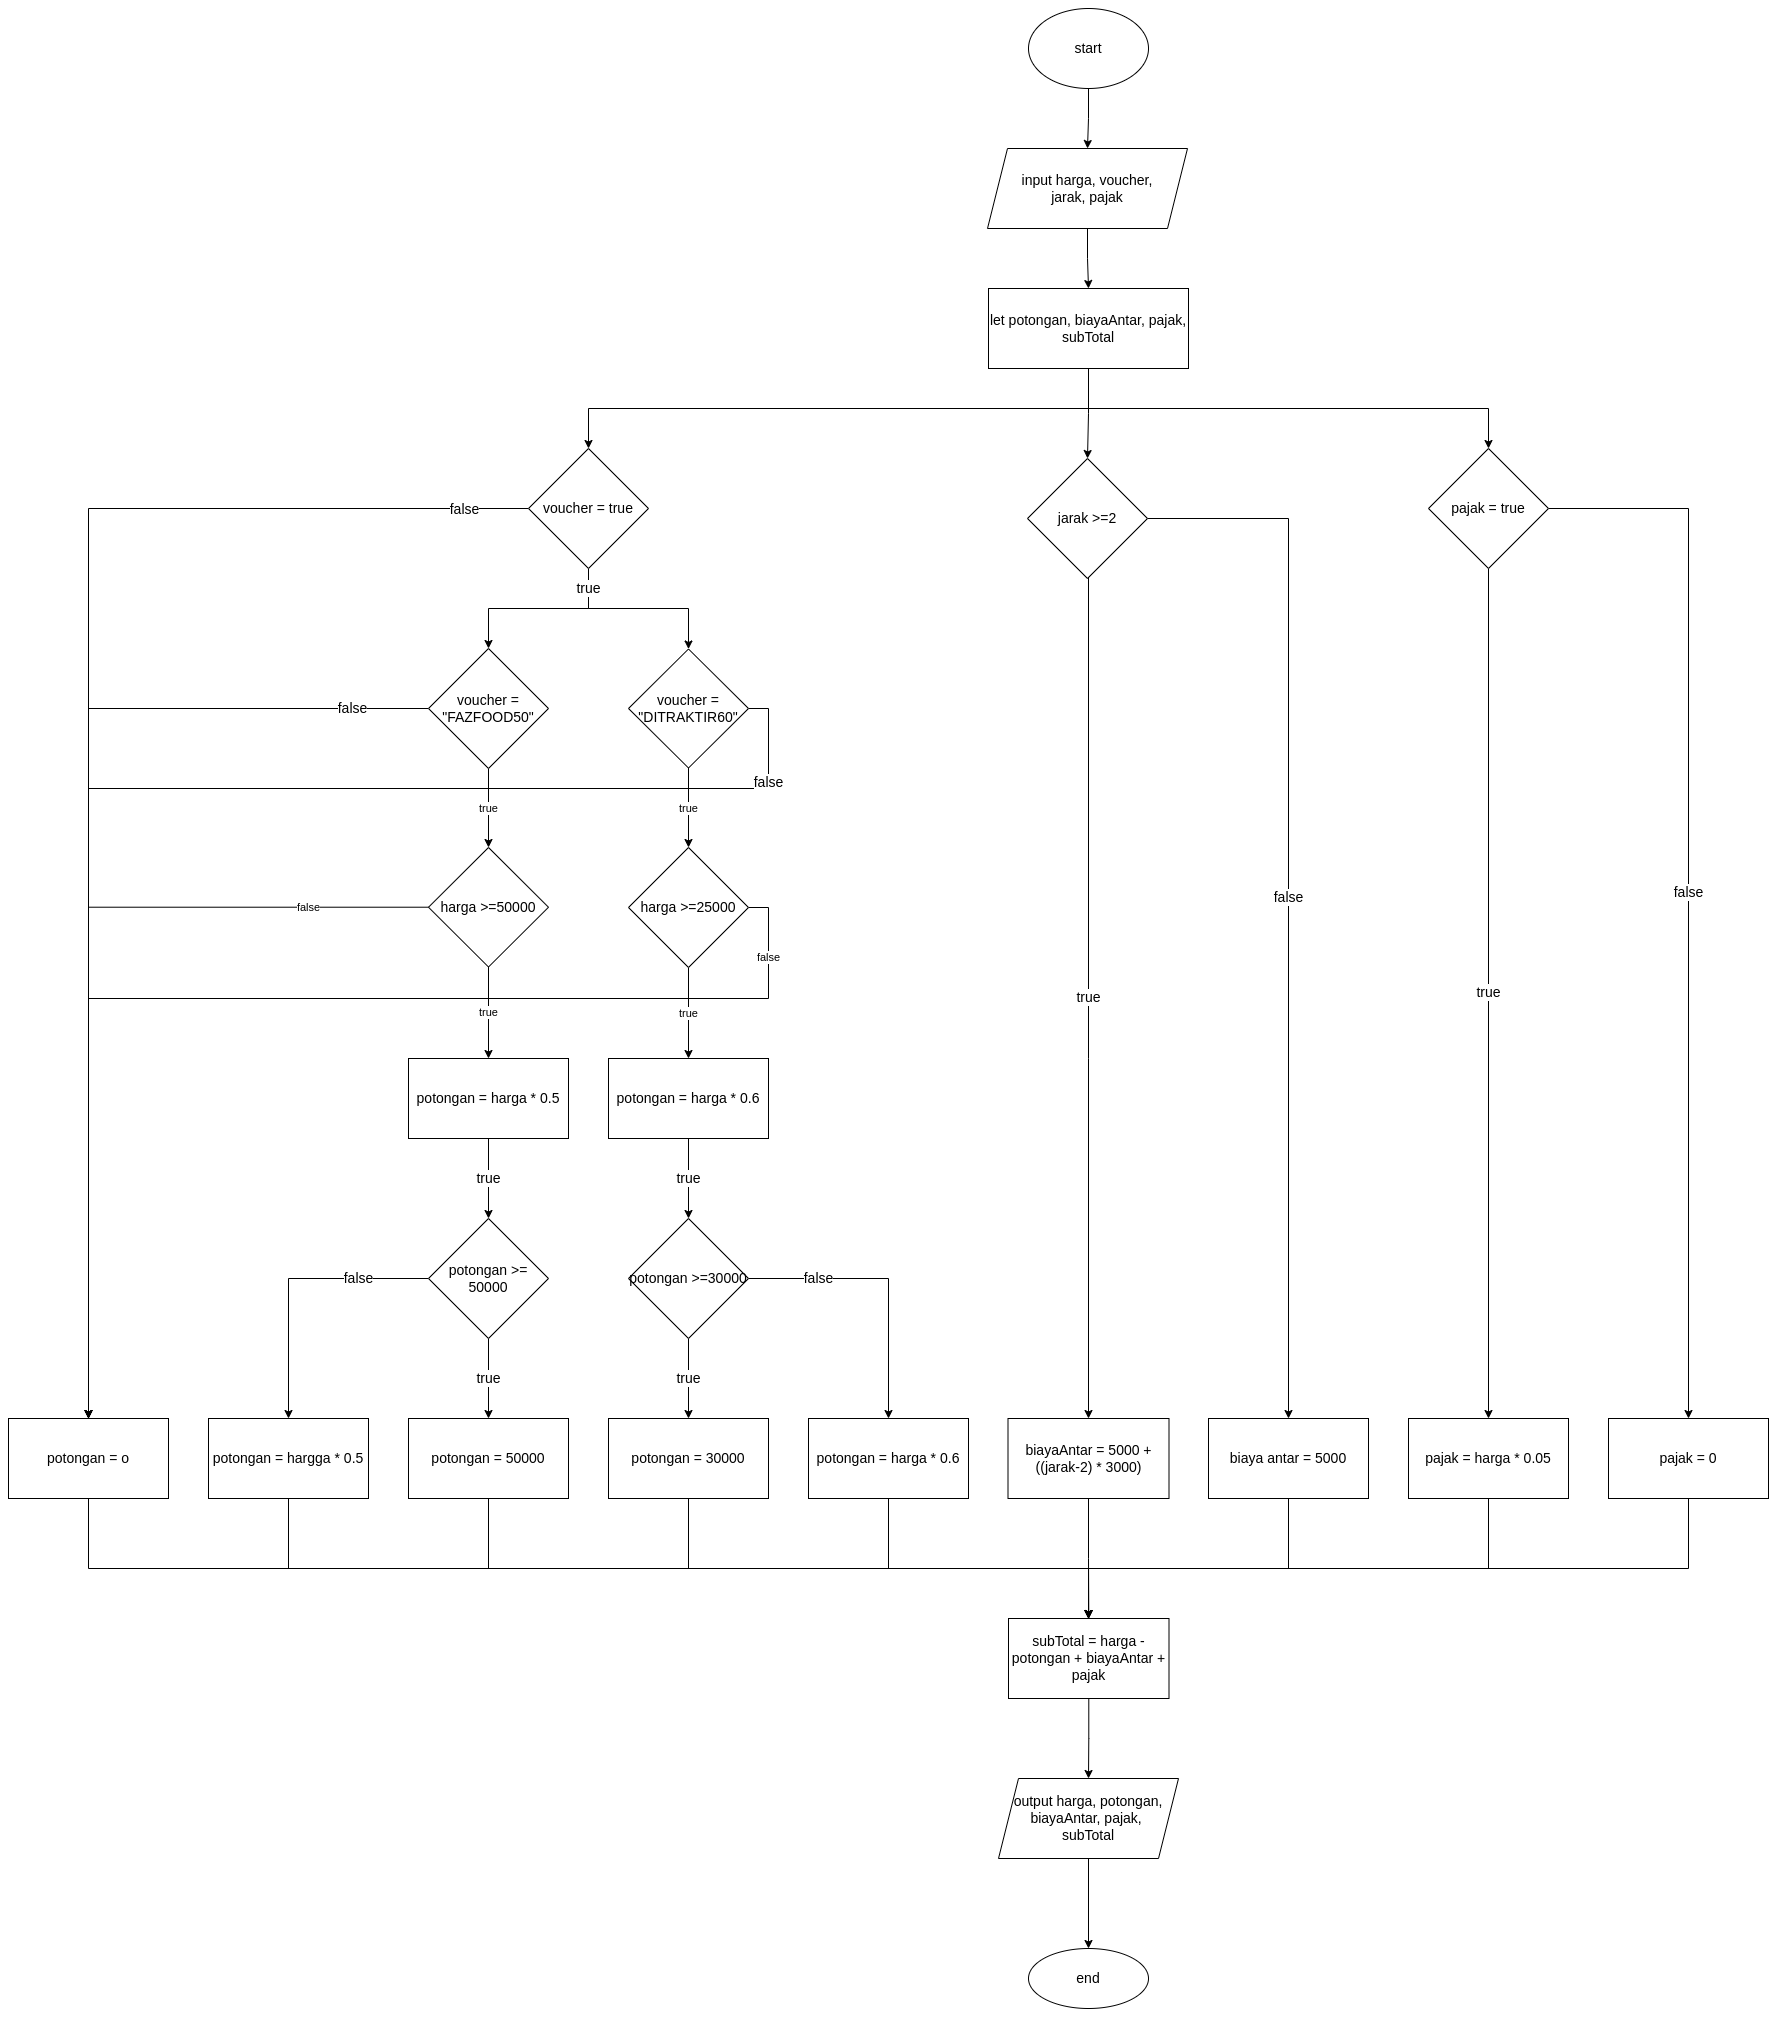
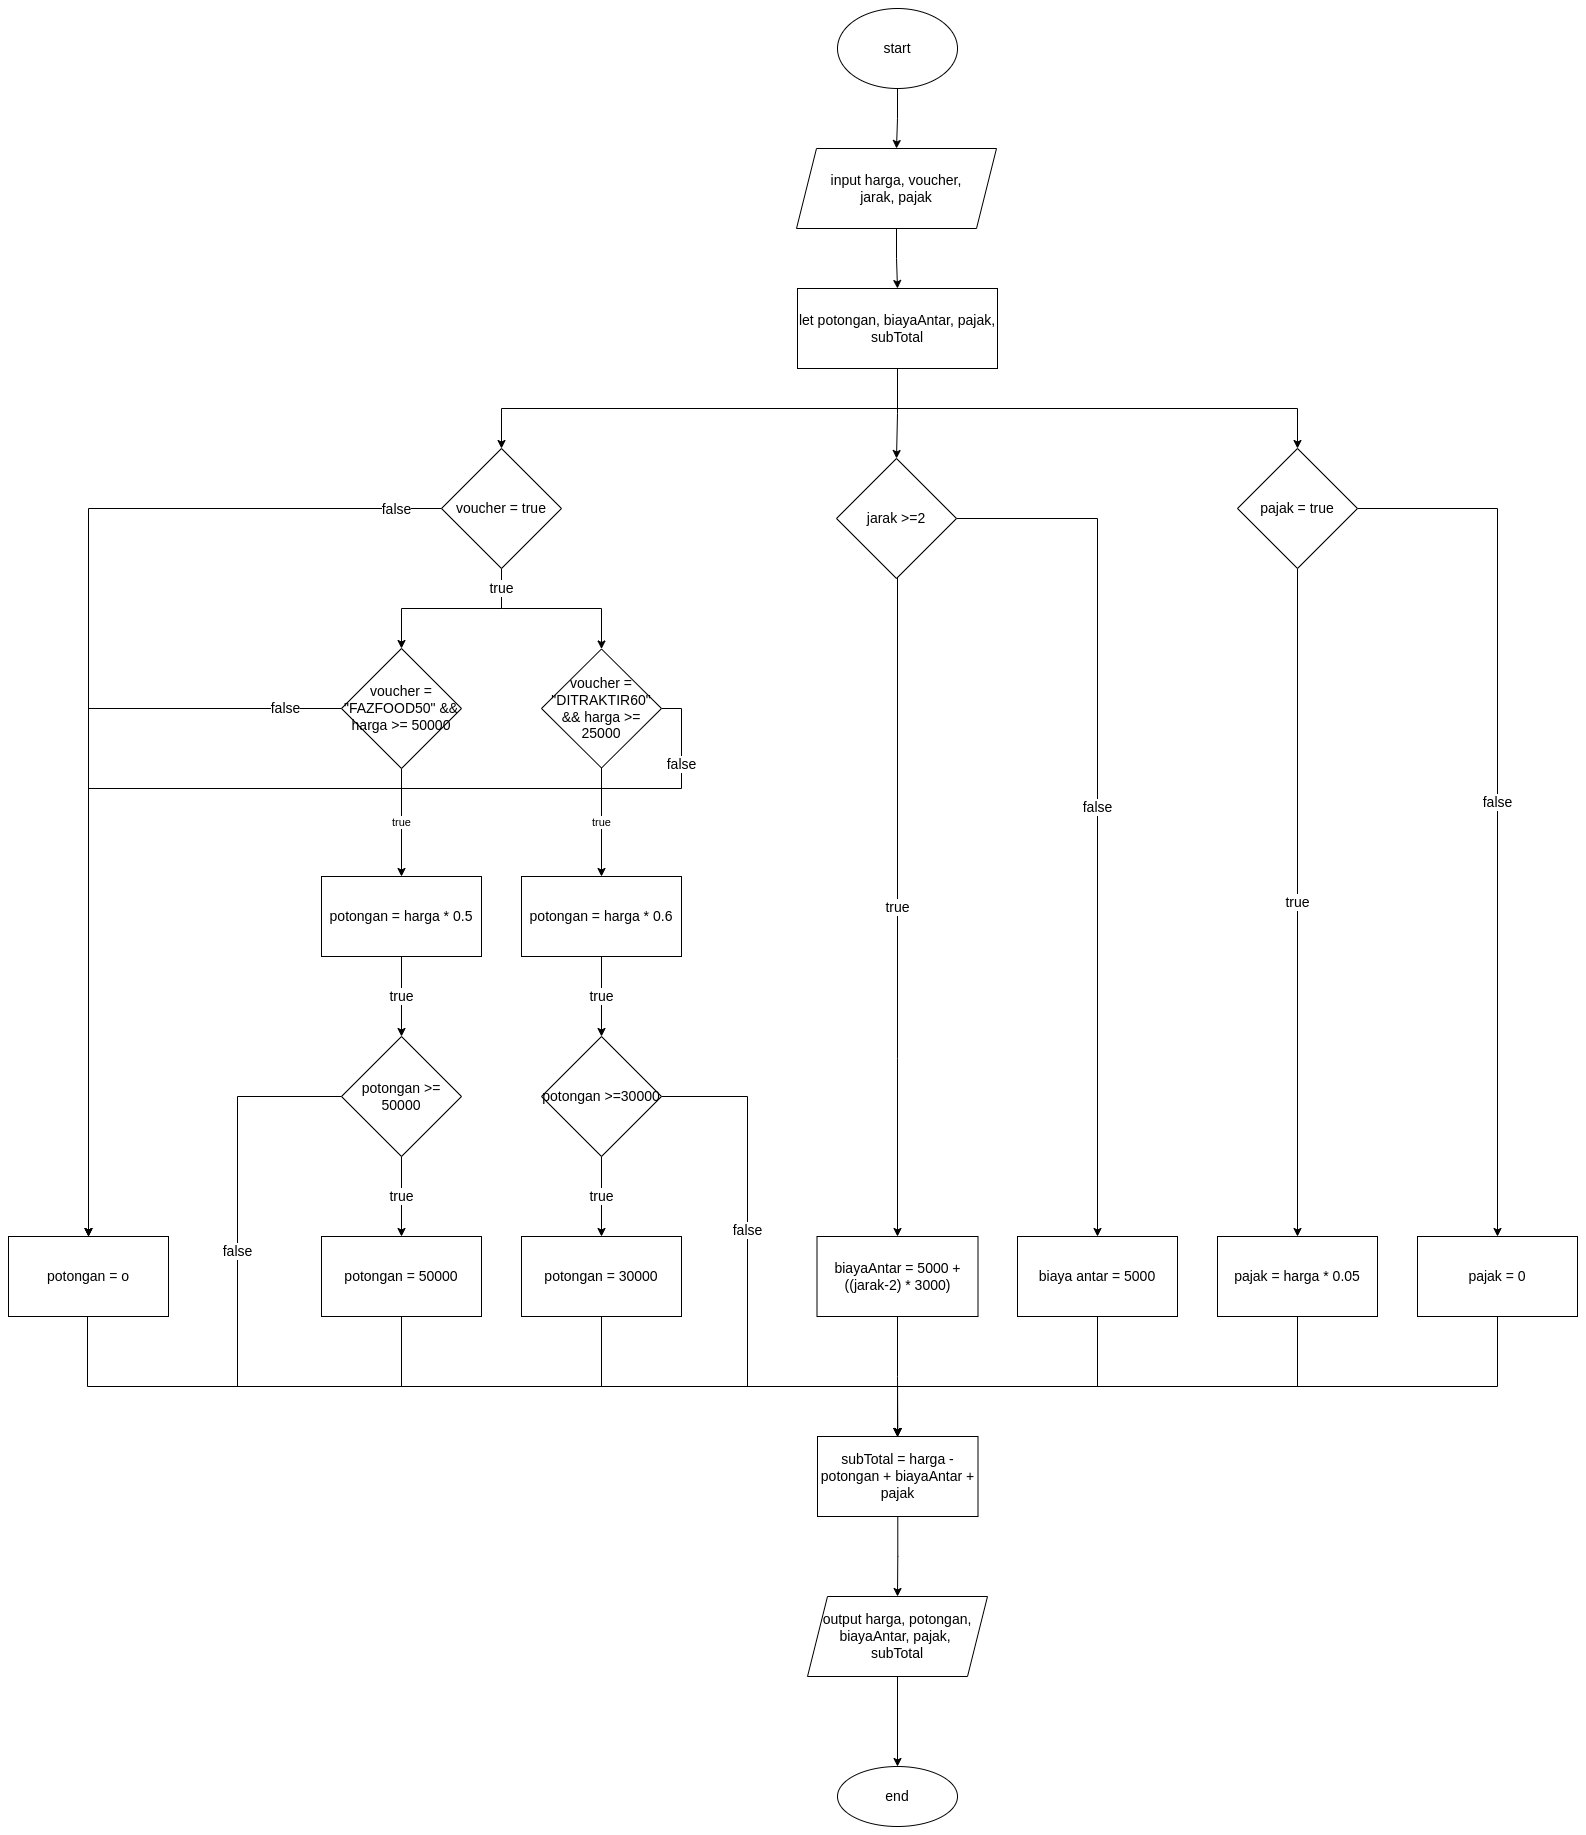
part4

diff --git a/Part 4/task3.js b/Part 4/task3.js
@@ -1,86 +1,67 @@
 function fazzFood(harga, voucher, jarak, pajak) {
-  let potongan;
-  let biayaAntar = 5000;
-  let pajakRestoran;
-  let subTotal;
-  console.log(`Harga : ${harga}`);
-
-  //POTONGAN
-  if (voucher) {
-    if (voucher === "FAZZFOOD50") {
-      if (harga >= 50000) {
-        potongan = harga * 0.5;
-        if (potongan >= 50000) {
-          potongan = 50000;
-        } else {
-          potongan;
-        }
+    let potongan;
+    let biayaAntar = 5000;
+    let pajakRestoran;
+    let subTotal;
+    console.log(`Harga : ${harga}`);
+  
+    //POTONGAN
+    if (voucher) {
+      if (voucher === "FAZZFOOD50" && harga >= 50000) {
+          potongan = harga * 0.5;
+          if (potongan >= 50000) {
+            potongan = 50000;
+          }
+      } else if (voucher === "DITRAKTIR60" && harga >= 25000) {
+          potongan = harga * 0.6;
+          if (potongan >= 30000) {
+            potongan = 30000;
+          }
       } else {
-        potongan = 0;
-      }
-    } else if (voucher === "DITRAKTIR60") {
-      if (harga >= 25000) {
-        potongan = harga * 0.6;
-        if (potongan >= 30000) {
-          potongan = 30000;
-        } else {
-          potongan;
-        }
-      } else {
+        console.log("kode voucher salah");
         potongan = 0;
       }
     } else {
-      console.log("kode voucher salah");
       potongan = 0;
     }
-  } else {
-    potongan = 0;
+    console.log(`Potongan : ${potongan}`);
+  
+    //ONGKIR
+    if (jarak <= 2) {
+      biayaAntar;
+    } else {
+      biayaAntar = 5000 + (jarak - 2) * 3000;
+    }
+    console.log(`Biaya Antar : ${biayaAntar}`);
+  
+    //PAJAK
+    if (pajak) {
+      pajakRestoran = harga * 0.05;
+    } else {
+      pajakRestoran = 0;
+    }
+    console.log(`Pajak : ${pajakRestoran}`);
+  
+    //SUBTOTAL
+    subTotal = harga - potongan + biayaAntar + pajakRestoran;
+    console.log(`SubTotal : ${subTotal}`);
   }
-  console.log(`Potongan : ${potongan}`);
-
-  //ONGKIR
-  if (jarak <= 2) {
-    biayaAntar;
-  } else {
-    biayaAntar = 5000 + (jarak - 2) * 3000;
-    // let biayaPer1km = 3000;
-    // let i = 1;
-    // do {
-    //   i++;
-    //   biayaAntar += biayaPer1km;
-    // } while (i <= jarak - 2);
-    // while (i <= jarak - 2) {
-    // i++;
-    // biayaAntar += biayaPer1km;
-    // }
-  }
-  console.log(`Biaya Antar : ${biayaAntar}`);
-
-  //PAJAK
-  if (pajak) {
-    pajakRestoran = harga * 0.05;
-  } else {
-    pajakRestoran = 0;
-  }
-  console.log(`Pajak : ${pajakRestoran}`);
-
-  //SUBTOTAL
-  subTotal = harga - potongan + biayaAntar + pajakRestoran;
-  console.log(`SubTotal : ${subTotal}`);
-}
-
-fazzFood(75000, "FAZZFOOD50", 5, true);
-console.log("~~~~~~~~~~~~~~~~~~~~~~~~~");
-fazzFood(150000, "FAZZFOOD50", 2, false);
-// console.log("~~~~~~~~~~~~~~~~~~~~~~~~~");
-// fazzFood(25000, "FAZZFOOD50", 7, false);
-// console.log("~~~~~~~~~~~~~~~~~~~~~~~~~");
-// fazzFood(100000, "FAZZFOOD50", 1, true);
-// console.log("~~~~~~~~~~~~~~~~~~~~~~~~~");
-// fazzFood(100000, "DITRAKTIR60", 5, true);
-// console.log("~~~~~~~~~~~~~~~~~~~~~~~~~");
-// fazzFood(25000, "DITRAKTIR60", 1, false);
-// console.log("~~~~~~~~~~~~~~~~~~~~~~~~~");
-// fazzFood(100000, "DITRAKTIR60", 5, true);
-// console.log("~~~~~~~~~~~~~~~~~~~~~~~~~");
-// fazzFood(45000, "DITRAKTIR60", 5, true);
+  
+  fazzFood(75000, "FAZZFOOD50", 5, true);
+  console.log("~~~~~~~~~~~~~~~~~~~~~~~~~");
+  fazzFood(150000, "FAZZFOOD50", 2, false);
+  console.log("~~~~~~~~~~~~~~~~~~~~~~~~~");
+  fazzFood(25000, "FAZZFOOD50", 7, false);
+  console.log("~~~~~~~~~~~~~~~~~~~~~~~~~");
+  fazzFood(50000, false, 1, false);
+  console.log("~~~~~~~~~~~~~~~~~~~~~~~~~");
+  fazzFood(100000, "FAZZFOOD55", 1, true);
+  // console.log("~~~~~~~~~~~~~~~~~~~~~~~~~");
+  // fazzFood(100000, "DITRAKTIR60", 5, true);
+  // console.log("~~~~~~~~~~~~~~~~~~~~~~~~~");
+  // fazzFood(25000, "DITRAKTIR60", 1, false);
+  // console.log("~~~~~~~~~~~~~~~~~~~~~~~~~");
+  // fazzFood(10000, "DITRAKTIR60", 5, true);
+  // console.log("~~~~~~~~~~~~~~~~~~~~~~~~~");
+  // fazzFood(45000, "DITRAKTIR60", 5, true);
+  

diff --git a/Part 4/task1.js b/Part 4/task1.js
@@ -1,17 +1,21 @@
 function cekPalindrom(text) {
   if (typeof text === "string") {
-    let textLower = text.toLowerCase().trim().split(" ").join(""); //lowercase->((hapus spasi kirikanan->memecah dengan spasi->menggabungkan tanpa spasi)menghilangkan semua spasi)
+    let textLower = text.toLowerCase().split(" ").join(""); //lowercase->((memecah dengan spasi->menggabungkan tanpa spasi)menghilangkan semua spasi)
     let textreverse = textLower.split("").reverse().join(""); //memecah perhuruf->reverse->menggabungkan kembali
 
-    if (textLower === textreverse) {
+    // if (textLower === textreverse) {
+    //   //cek kondisi
+    //   return console.log(`text ${text} is Palindrom`);
+    // } else {
+    //   return console.log(`text ${text} not Palindrom`);
+    // }
+    textLower === textreverse ?
       //cek kondisi
-      return console.log(`text ${text} is Palindrom`);
-    } else {
-      return console.log(`text ${text} not Palindrom`);
-    }
+      console.log(`text ${text} is Palindrom`) :
+      console.log(`text ${text} not Palindrom`)
   } else {
     return console.log("input harus string");
   }
 }
 
-cekPalindrom("   K as U r Ru S AK");
+cekPalindrom("   K as U r Ru S aAK");
